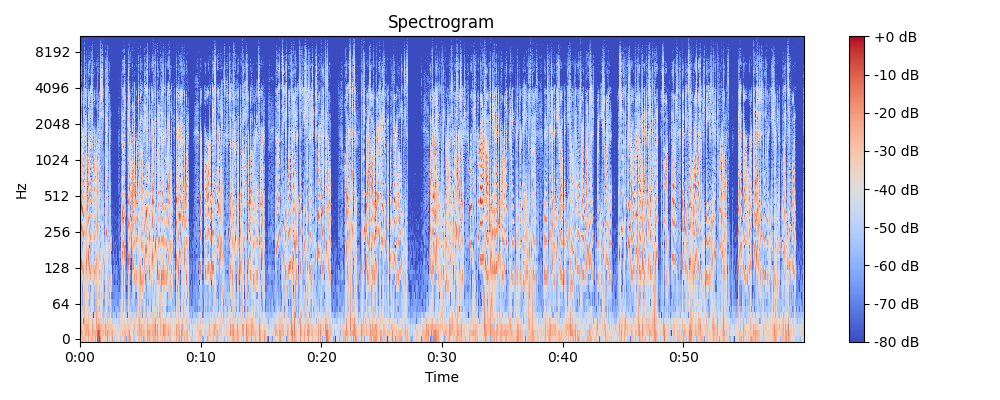
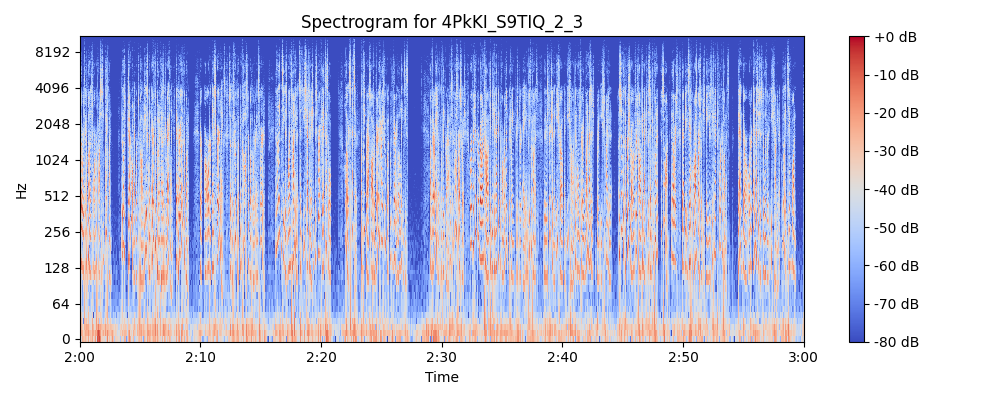
Resolve issue #1

diff --git a/AudioTransitionTracker/src/AudioLecture.py b/AudioTransitionTracker/src/AudioLecture.py
@@ -28,9 +28,9 @@ class AudioLecture:
             'url': self.url,
             'audio_filepath': self.audio_filepath,
             'spectrogram_filepath': self.spectrogram_filepath,
-            'start_time': 0,
+            'start_time': self.start_time,
             'duration': self.duration,
-            'is_full': True,
+            'is_full': self.is_full,
             'fullstop_timestamps': self.fullstop_timestamps
         }
         with open(json_filepath, 'w') as file:
@@ -70,7 +70,7 @@ class AudioLecture:
         spectrogram_filepath = output_image_path
         open(spectrogram_filepath, "w").close()
         y, sr = librosa.load(audio_filepath)
-        #self.duration = librosa.get_duration(y=y, sr=sr)
+        #print(f"waveform: {y} & sampling rate: {sr}")
         if self.is_full:
             self.duration = math.floor(librosa.get_duration(y=y, sr=sr))
         else:
@@ -86,9 +86,10 @@ class AudioLecture:
 
         # Plotting the spectrogram
         plt.figure(figsize=(10, 4))
-        librosa.display.specshow(S_db, sr=sr, x_axis='time', y_axis='log', cmap='coolwarm')
+        time_axis = np.linspace(start_time, start_time + self.duration, S_db.shape[-1])
+        librosa.display.specshow(S_db, sr=sr, x_axis='time', y_axis='log', cmap='coolwarm', x_coords=time_axis)
         plt.colorbar(format='%+2.0f dB')
-        plt.title('Spectrogram')
+        plt.title(f'Spectrogram for {self.name}')
         plt.tight_layout()
         plt.savefig(output_image_path)
         plt.close()
@@ -161,7 +162,7 @@ def segment_audio_lecture(audioLecture: AudioLecture, start_time, duration):
     
     # segment timestamp array based on start time and end time
     start_time_s = convert_timestamp_to_seconds(start_time)
-    duration_s = convert_timestamp_to_seconds( duration)
+    duration_s = convert_timestamp_to_seconds(duration)
     fullstop_timestamps = data["fullstop_timestamps"]
     new_timestamps_array = []
     
